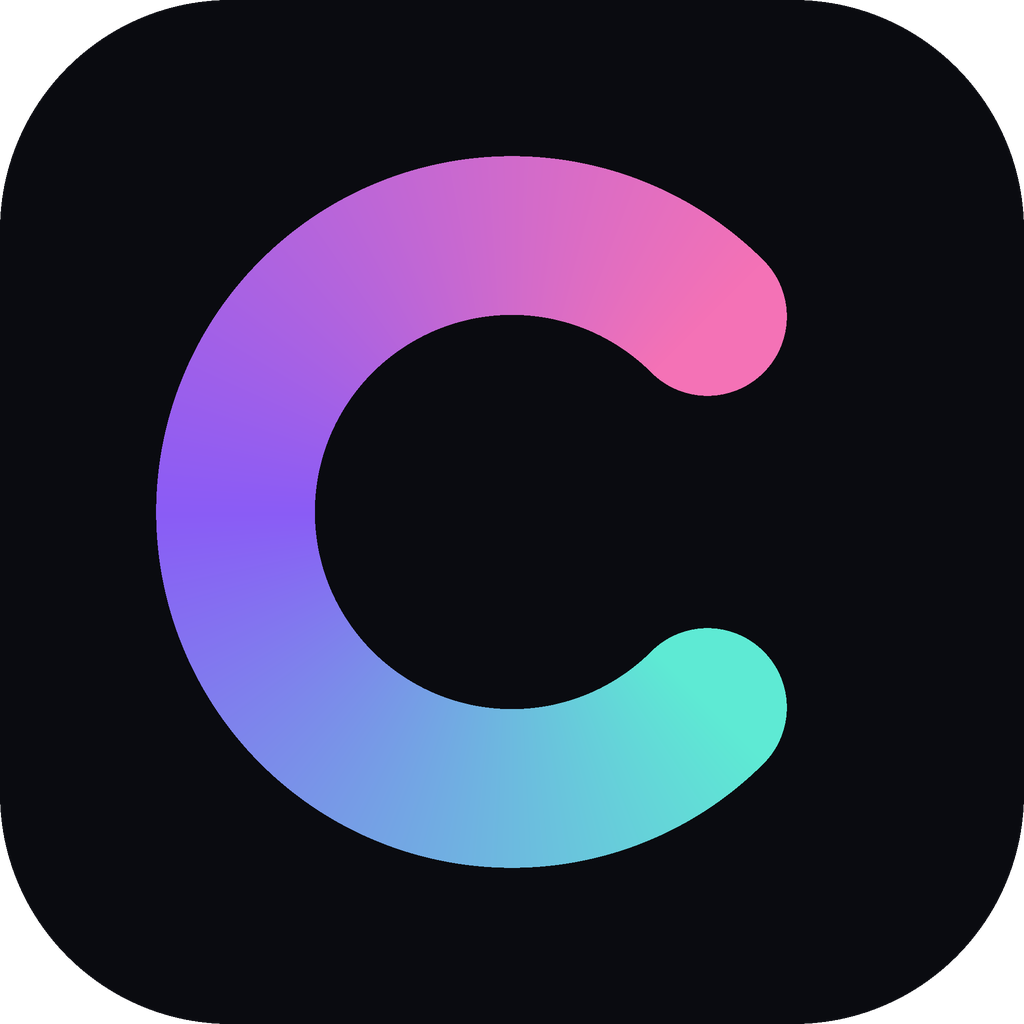
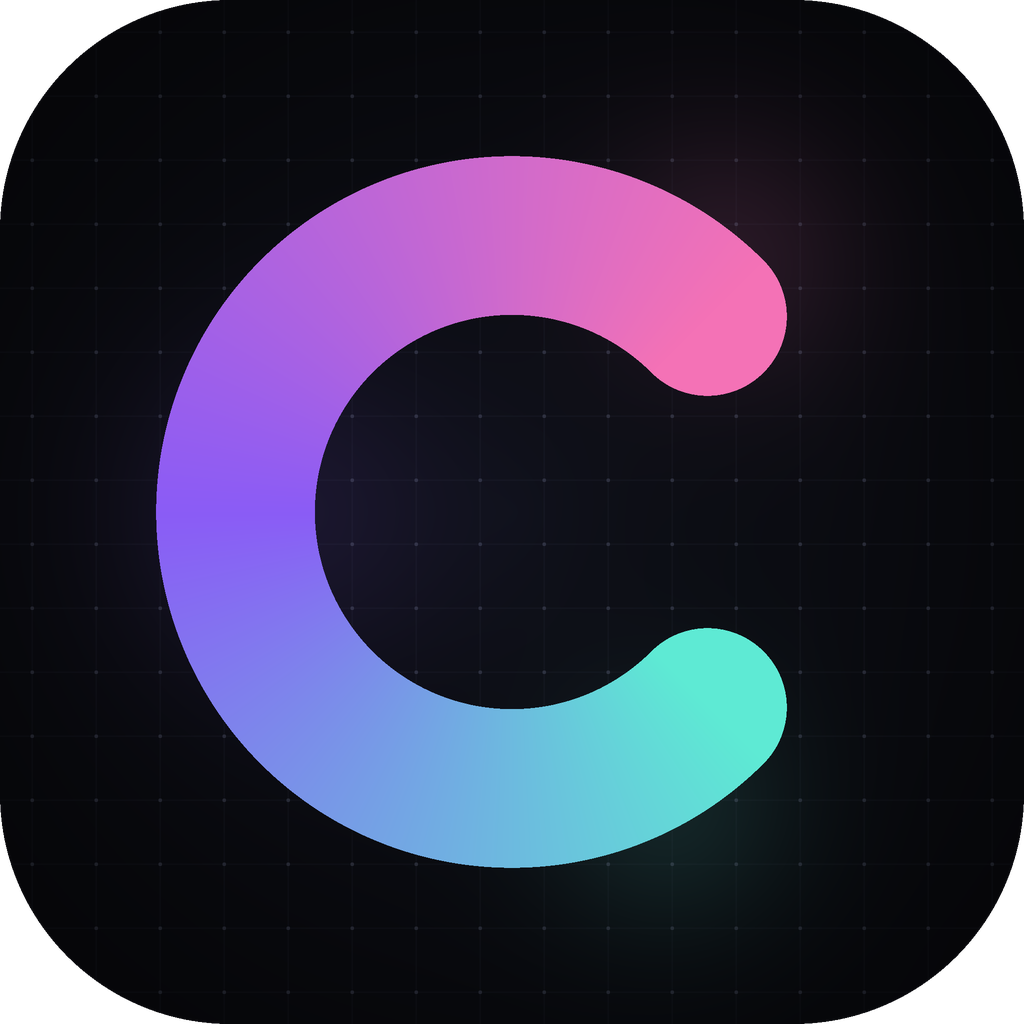
docs: 图标背景加入极光与节点网格
- 底色仍是 #0A0B10，叠加低透明度粉/紫/青极光
- 增加 16x16 节点网格与节点点，缩到 24px 时基本消失
- Android/鸿蒙背景层与主图同步更新

Changed region(s): [[0.2812, 0.4375, 0.375, 0.5625], [0.6875, 0.1875, 0.7812, 0.2812]]

diff --git a/docs/design/app-icon/generate.py b/docs/design/app-icon/generate.py
@@ -84,21 +84,69 @@ def ring_image(size: int, scale: float = 1.0, ss: int = 4, white: bool = False) 
     return high.resize((size, size), Image.LANCZOS)
 
 
+def background_rgb(px: int) -> np.ndarray:
+    """深色底 + 极淡的极光与节点网格；保持小尺寸下只剩柔光。"""
+    yy, xx = np.mgrid[0:px, 0:px].astype(np.float32)
+    cx = cy = px / 2.0
+    dx = (xx - cx) / (px / 2.0)
+    dy = (yy - cy) / (px / 2.0)
+    radius = np.sqrt(dx * dx + dy * dy)
+
+    image = np.empty((px, px, 3), dtype=np.float32)
+    image[:] = np.array(BG, dtype=np.float32)
+
+    # 中心轻微提亮，避免纯黑底显得像被挖空。
+    lift = np.clip(1.0 - radius, 0.0, 1.0) ** 2
+    image += lift[..., None] * np.array([5.0, 6.0, 10.0], dtype=np.float32)
+
+    glows = (
+        (0.72, 0.24, 0.40, (244, 114, 182), 0.13),
+        (0.27, 0.50, 0.48, (139, 92, 246), 0.12),
+        (0.66, 0.80, 0.38, (94, 234, 212), 0.12),
+    )
+    for gx, gy, spread, color, strength in glows:
+        distance = np.sqrt((dx - (gx * 2 - 1)) ** 2 + (dy - (gy * 2 - 1)) ** 2)
+        weight = np.exp(-(distance / spread) ** 2 * 2.2)
+        alpha = (weight * strength)[..., None]
+        image = image * (1.0 - alpha) + np.array(color, dtype=np.float32) * alpha
+
+    # 节点网格：线 3.5% 透明度，节点 15%；缩到 24px 时只剩一点纹理。
+    step = px / 16.0
+    grid_x = np.abs((xx % step) - step / 2.0)
+    grid_y = np.abs((yy % step) - step / 2.0)
+    lines = (grid_x < px * 0.00055) | (grid_y < px * 0.00055)
+    nodes = (grid_x * grid_x + grid_y * grid_y) < (px * 0.0019) ** 2
+    image[lines] = image[lines] * 0.965 + np.array([150.0, 160.0, 210.0]) * 0.035
+    image[nodes] = image[nodes] * 0.85 + np.array([200.0, 210.0, 255.0]) * 0.15
+
+    # 边缘压暗，保证圆角/裁切后仍有层次。
+    edge = np.clip((radius - 0.62) / 0.55, 0.0, 1.0)
+    image *= (1.0 - 0.38 * edge[..., None])
+    return np.clip(image, 0.0, 255.0).astype(np.uint8)
+
+
+def background_image(size: int, rounded: bool = False) -> Image.Image:
+    px = size * 2
+    image = Image.fromarray(background_rgb(px), "RGB").convert("RGBA")
+    if rounded:
+        mask = Image.new("L", (px, px), 0)
+        ImageDraw.Draw(mask).rounded_rectangle(
+            [0, 0, px - 1, px - 1], radius=int(px * 0.225), fill=255
+        )
+        image.putalpha(mask)
+    return image.resize((size, size), Image.LANCZOS)
+
+
 def rounded_master(size: int = 1024, ss: int = 2) -> Image.Image:
     px = size * ss
-    canvas = Image.new("RGBA", (px, px), (0, 0, 0, 0))
-    draw = ImageDraw.Draw(canvas)
-    draw.rounded_rectangle(
-        [0, 0, px - 1, px - 1],
-        radius=int(px * 0.225),
-        fill=BG + (255,),
+    canvas = Image.fromarray(background_rgb(px), "RGB").convert("RGBA")
+    mask = Image.new("L", (px, px), 0)
+    ImageDraw.Draw(mask).rounded_rectangle(
+        [0, 0, px - 1, px - 1], radius=int(px * 0.225), fill=255
     )
+    canvas.putalpha(mask)
     canvas.alpha_composite(ring_rgba(px, scale=1.0))
     return canvas.resize((size, size), Image.LANCZOS)
-
-
-def solid(size: int) -> Image.Image:
-    return Image.new("RGBA", (size, size), BG + (255,))
 
 
 def size_sheet(master: Image.Image) -> Image.Image:
@@ -139,12 +187,12 @@ def main() -> None:
     # The full ring is 69.5% of the canvas; 0.86 keeps it within 66/108.
     android_scale = 0.86
     ring_image(432, scale=android_scale, ss=4).save(OUT / "android_foreground_432.png")
-    solid(432).save(OUT / "android_background_432.png")
+    background_image(432).save(OUT / "android_background_432.png")
     ring_image(432, scale=android_scale, ss=4, white=True).save(OUT / "android_monochrome_432.png")
 
     # HarmonyOS layered icon: foreground/background are both 1024.
     ring_image(1024, scale=1.0, ss=2).save(OUT / "harmony_foreground_1024.png")
-    solid(1024).save(OUT / "harmony_background_1024.png")
+    background_image(1024).save(OUT / "harmony_background_1024.png")
 
     size_sheet(master).save(OUT / "sizes.png")
     print("wrote", sorted(p.name for p in OUT.glob("*.png")))

diff --git a/docs/design/app-icon/README.md b/docs/design/app-icon/README.md
@@ -2,10 +2,11 @@
 
 ## 方案
 「纯 C」：一条粗笔画、圆头的开口环，开口朝右，形成字母 C；颜色沿弧线从青绿走到粉，
-深色圆角底承托。不放任何附加元素。
+深色圆角底承托。前景不放任何附加元素；背景叠了很淡的三色极光和 16×16 节点网格，
+缩到 24px 时网格基本消失，只剩柔光，不会和 C 抢注意力。
 
 本轮实现改成 **角度渐变 + 形状遮罩** 绘制，不再逐段画线，因此缩放后不会出现
-放射状条纹；Android 背景和鸿蒙背景都是纯色 `#0A0B10`，不再叠加光晕。
+放射状条纹；背景纹理也由同一个生成脚本输出。
 
 ## 几何
 - 画布 1024×1024，圆角半径 22.5%（230）。
@@ -18,6 +19,7 @@
 - 底：#0A0B10
 - 渐变：#5EEAD4（0%）→ #8B5CF6（50%）→ #F472B6（100%），沿弧线角度线性插值。
 - 端点圆头沿用端点色，避免圆头与弧线之间出现色差接缝。
+- 背景：三处低透明度极光（粉/紫/青）+ 3.5% 网格线 + 15% 节点点，边缘压暗。
 
 ## 交付尺寸
 - 主图：1024×1024（应用商店、关于页）。
